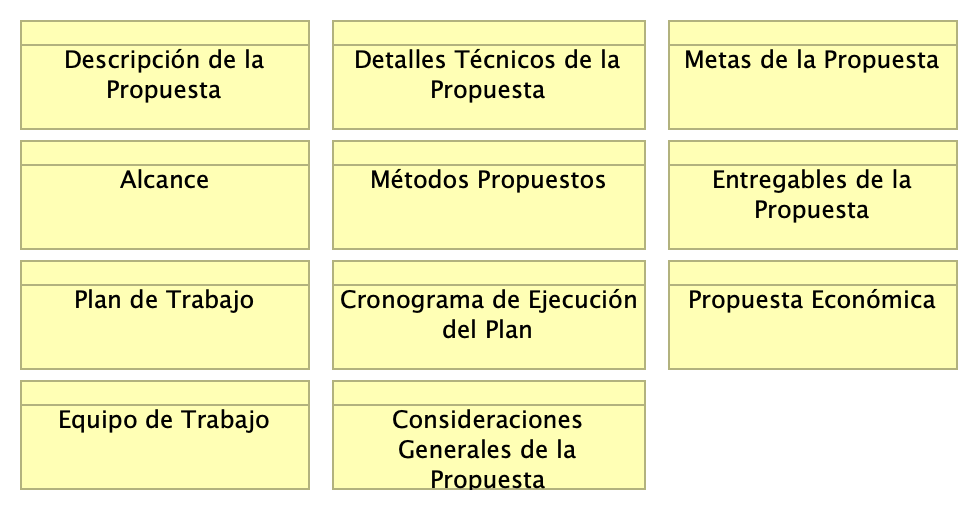
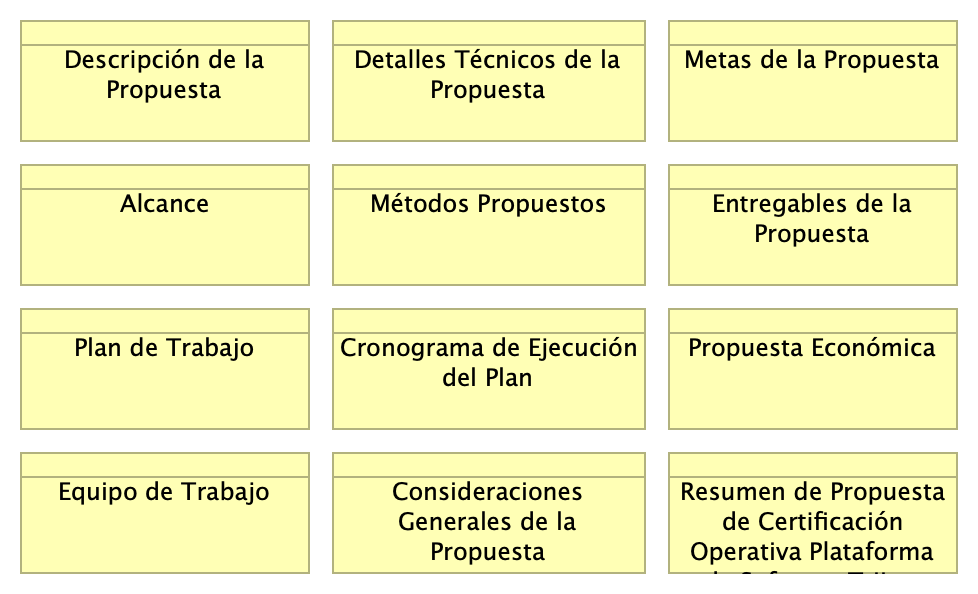
propuestaresumen

diff --git a/contd/docx/03.triipropuesta.md b/contd/docx/03.triipropuesta.md
@@ -1,8 +1,8 @@
 # Contenido
 * [Información del Documento](#información-del-documento)
 * [Informe Operativo Plataforma de Software Trii.co](#informe-operativo-plataforma-de-software-trii.co)
-* [Resultados y Conclusiones del Informe de Rendimiento](#resultados-y-conclusiones-del-informe-de-rendimiento)
-* [Anexos Técnicos](#anexos-técnicos)
+* [Anexos de la Propuesta](#anexos-de-la-propuesta)
+* [Lista de Imágenes](#lista-de-imágenes)
 
 
 <div style="page-break-before: always;"></div>
@@ -214,6 +214,14 @@ Nota: por las restricciones de ejecución conocidas al momento de la realizació
 1. La tarifa de los controles de cambio de la propuesta es de $/. 120.000 COP la hora. Incluye impuestos.
 
 
+### Resumen de Propuesta de Certificación Operativa Plataforma de Software Trii.co
+
+• 4 días trabajo
+• Requiere apoyo de un ingeniero interno de la empresa, dedicado dos días
+• El resultado son 3 informes: línea base, ejecutivo, y técnico.
+• Costo es de $1150 USD, con impuestos.
+• No incluye: por restricciones de tiempo no incluye recomendaciones de diseño/arquitectura,
+ni plan de capacidad proyección de uso infraestructura
 
 
 
@@ -229,11 +237,11 @@ titlepage-rule-color: 360049
 <div style="page-break-before: always;"></div>
 \newpage
 
-# Resultados y Conclusiones del Informe de Rendimiento
+# Anexos de la Propuesta
 <div style="page-break-before: always;"></div>
 \newpage
 
-# Anexos Técnicos
+# Lista de Imágenes
 
 
 1. Archivos de registro de actividad

diff --git a/contd/pdf/03.triipropuesta.md b/contd/pdf/03.triipropuesta.md
@@ -1,8 +1,8 @@
 # Contenido
 * [Información del Documento](#información-del-documento)
 * [Informe Operativo Plataforma de Software Trii.co](#informe-operativo-plataforma-de-software-trii.co)
-* [Resultados y Conclusiones del Informe de Rendimiento](#resultados-y-conclusiones-del-informe-de-rendimiento)
-* [Anexos Técnicos](#anexos-técnicos)
+* [Anexos de la Propuesta](#anexos-de-la-propuesta)
+* [Lista de Imágenes](#lista-de-imágenes)
 
 
 <div style="page-break-before: always;"></div>
@@ -214,6 +214,14 @@ Nota: por las restricciones de ejecución conocidas al momento de la realizació
 1. La tarifa de los controles de cambio de la propuesta es de $/. 120.000 COP la hora. Incluye impuestos.
 
 
+### Resumen de Propuesta de Certificación Operativa Plataforma de Software Trii.co
+
+• 4 días trabajo
+• Requiere apoyo de un ingeniero interno de la empresa, dedicado dos días
+• El resultado son 3 informes: línea base, ejecutivo, y técnico.
+• Costo es de $1150 USD, con impuestos.
+• No incluye: por restricciones de tiempo no incluye recomendaciones de diseño/arquitectura,
+ni plan de capacidad proyección de uso infraestructura
 
 
 
@@ -229,11 +237,11 @@ titlepage-rule-color: 360049
 <div style="page-break-before: always;"></div>
 \newpage
 
-# Resultados y Conclusiones del Informe de Rendimiento
+# Anexos de la Propuesta
 <div style="page-break-before: always;"></div>
 \newpage
 
-# Anexos Técnicos
+# Lista de Imágenes
 
 
 1. Archivos de registro de actividad

diff --git a/contd/tex/03.triipropuesta.md b/contd/tex/03.triipropuesta.md
@@ -1,8 +1,8 @@
 # Contenido
 * [Información del Documento](#información-del-documento)
 * [Informe Operativo Plataforma de Software Trii.co](#informe-operativo-plataforma-de-software-trii.co)
-* [Resultados y Conclusiones del Informe de Rendimiento](#resultados-y-conclusiones-del-informe-de-rendimiento)
-* [Anexos Técnicos](#anexos-técnicos)
+* [Anexos de la Propuesta](#anexos-de-la-propuesta)
+* [Lista de Imágenes](#lista-de-imágenes)
 
 
 <div style="page-break-before: always;"></div>
@@ -214,6 +214,14 @@ Nota: por las restricciones de ejecución conocidas al momento de la realizació
 1. La tarifa de los controles de cambio de la propuesta es de $/. 120.000 COP la hora. Incluye impuestos.
 
 
+### Resumen de Propuesta de Certificación Operativa Plataforma de Software Trii.co
+
+• 4 días trabajo
+• Requiere apoyo de un ingeniero interno de la empresa, dedicado dos días
+• El resultado son 3 informes: línea base, ejecutivo, y técnico.
+• Costo es de $1150 USD, con impuestos.
+• No incluye: por restricciones de tiempo no incluye recomendaciones de diseño/arquitectura,
+ni plan de capacidad proyección de uso infraestructura
 
 
 
@@ -229,11 +237,11 @@ titlepage-rule-color: 360049
 <div style="page-break-before: always;"></div>
 \newpage
 
-# Resultados y Conclusiones del Informe de Rendimiento
+# Anexos de la Propuesta
 <div style="page-break-before: always;"></div>
 \newpage
 
-# Anexos Técnicos
+# Lista de Imágenes
 
 
 1. Archivos de registro de actividad
